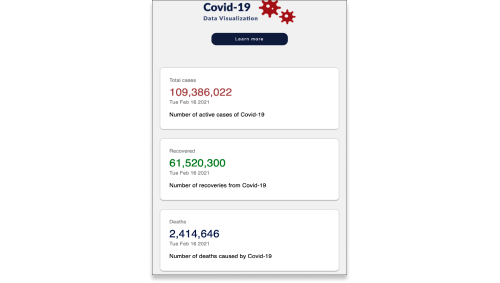
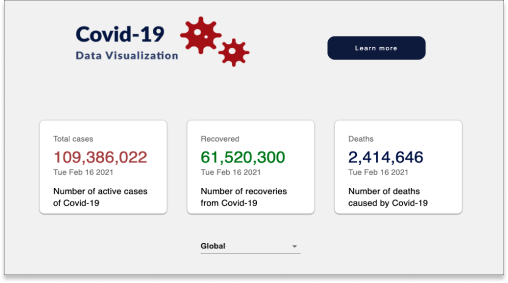
covid19 carousel fixed

diff --git a/src/index.html b/src/index.html
@@ -101,7 +101,7 @@
             </ol>
             <div class="carousel-inner">
               <div class="carousel-item active">
-                <img class="col-12" src="../src/styles/images/covid19-carousel1.png" height= "320px"alt="First slide">
+                <img class="col-12" src="../src/styles/images/covid19-carousel1.png" alt="First slide">
               </div>
               <div class="carousel-item">
                 <img class="col-12" src="../src/styles/images/covid19-carousel2.png" alt="Second slide">
